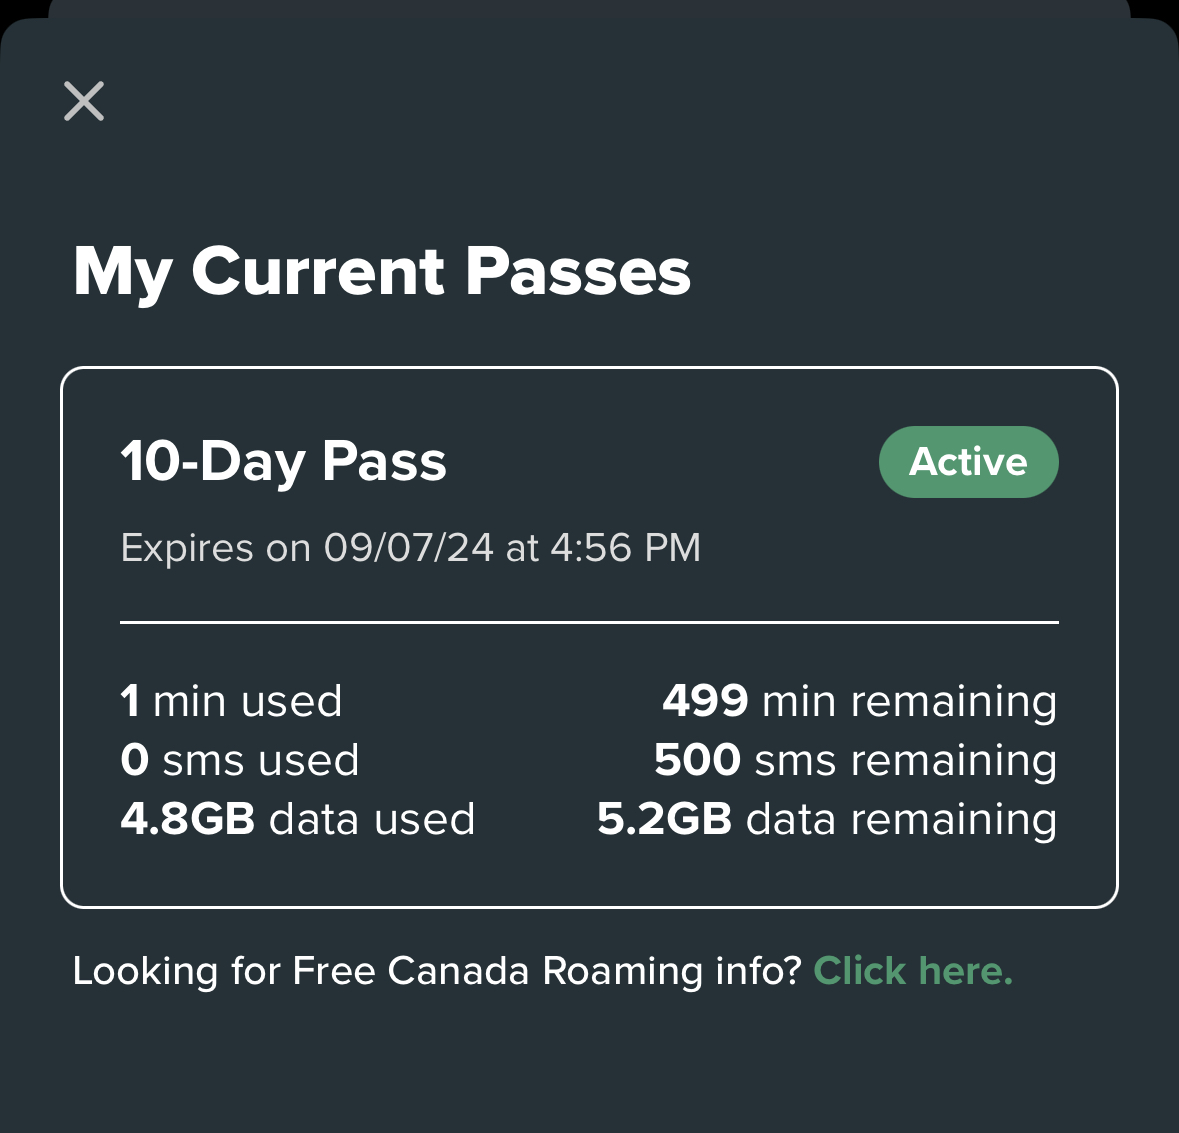
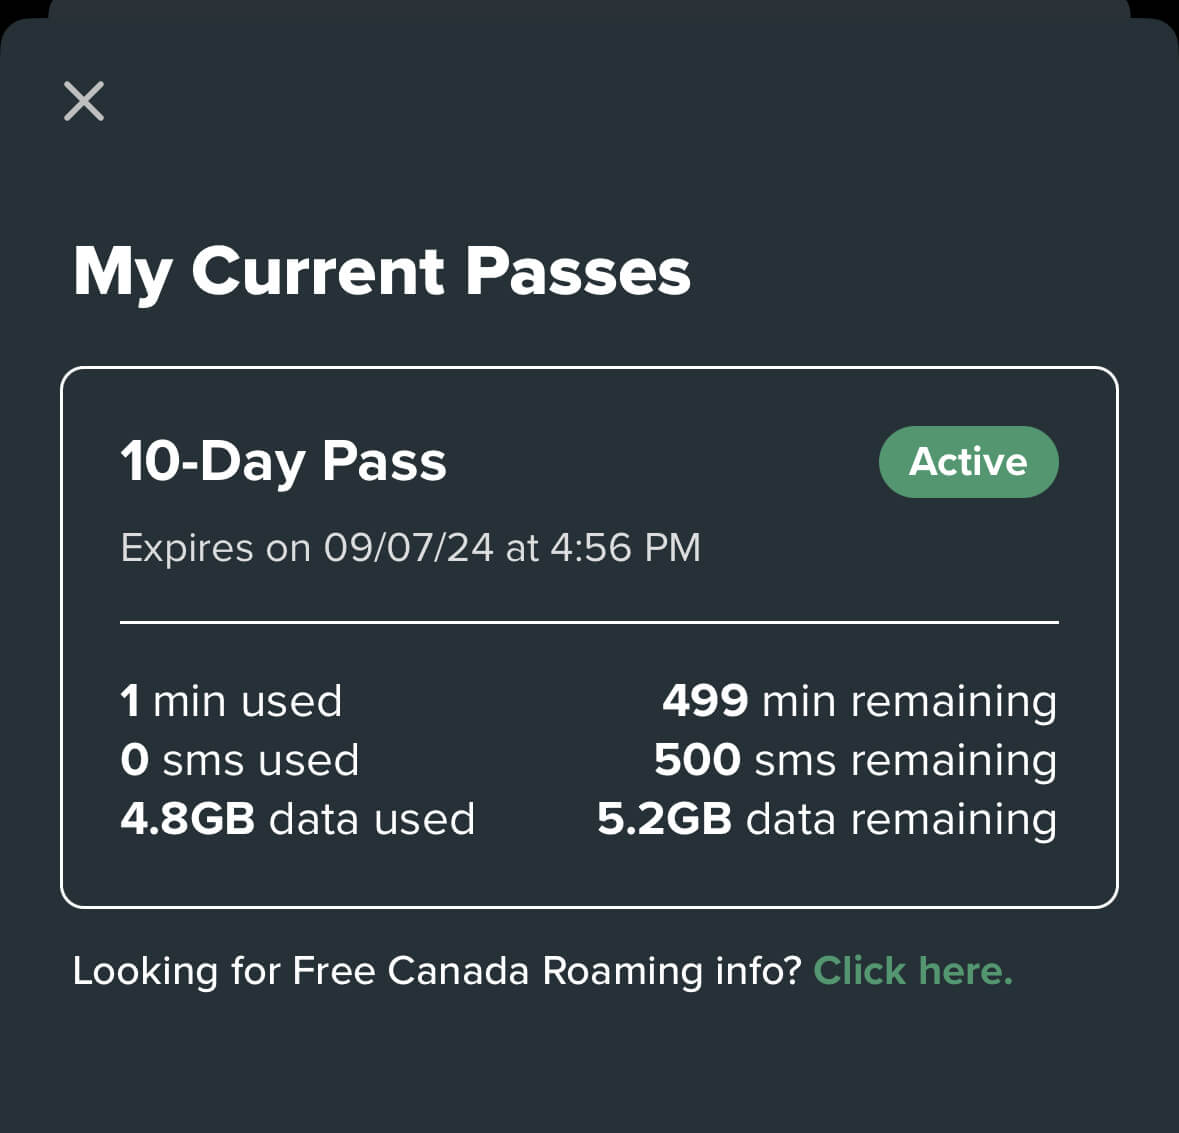
Reduced file sizes of images and updated september big impact mixer page

diff --git a/_notes/September Big Impact Mixer.md b/_notes/September Big Impact Mixer.md
@@ -1,0 +1,58 @@
+---
+last_modified_at: September 13, 2024
+permalink: BIMsep
+description: An 84% pay cut? Would you do it? Come see how Brian justified that decision at the Big Impact Mixer this coming Thursday.
+title: An 84% Pay Cut? Would You Take it?
+image: 
+published: "true"
+sitemap: "true"
+excerpt_separator: <!--more-->
+category: 
+tags:
+  - BIM
+  - events
+date: 2024-09-13
+---
+It's time! Our next Big Impact Mixer will be on Thursday at 10 am Pacific.
+
+We're going to have two interesting presentations Thursday!
+
+**First**, get there on time, because Brian is going to tell us all **why he took an 84% pay cut** to do what he's doing now.
+
+Can you even imagine taking an 84% pay cut at the height of your career?
+
+What would that look like for you? If you make a million dollars a year, you'd be left with 260K.
+
+But what if you make 260K? You'd be down to 39K!
+
+But what if you make 80K?
+
+You'd be down to $1000/month.
+
+What would make that kind of pay reduction worth it?
+
+What would have to be true for you to make that kind of decision?
+
+**Second**, I'm going to share 3 lessons I learned from my time in Tokyo last month. It was truly amazing, and wonderful. 
+<!--more-->
+I'll share how I learned to think long term, be intentional and put the user first.
+
+**Third**, we are going to finish out with some breakouts and networking to talk about those things we learned from Brian and yours truly. 
+
+Finally, I ended last month's Mixer with a request: **Invite someone to this month's mixer**.
+
+You can invite them by sending them to [https://bigimpactmixer.com](https://bigimpactmixer.com/)
+
+## Housekeeping
+
+**Calendar invites** You should have a calendar invite for this week's mixer already on your calendar. If you don't, please let me know and I'll add you to the calendar invite! Reminder, decline the events you can't make, but leave future events on your calendar, so we can stay connected.
+
+**Chat** Our chat space is at chat.bigimpactmixer.com - that's a place where we can continue the conversation, make deeper connections, and find partners in whatever your big impact is! If you aren't signed in there, yet, please [register here](https://chat.bigimpactmixer.com/join/aw0m-8m7Z-ZPVJ).
+
+PS. Who is this Jethro guy and why is he hosting this event?
+
+I have been podcasting since 2008, in various forms. Since then, I have created the longest running, most downloaded school leadership podcast out there, Transformative Principal.
+
+Now, I help other people who are mission driven by coaching them or helping them to create their own podcasts and connect with the right people in the right way to build powerful communities where people take action.
+
+If you want to talk about how a podcast can help you make a big impact, [please reach out](mailto:jethro@transformativeprincipal.com).
